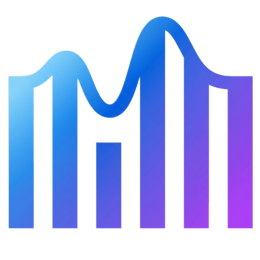
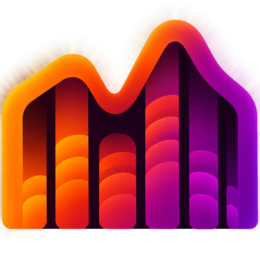
feat: Add new images

diff --git a/README.md b/README.md
@@ -1,6 +1,6 @@
 <div align="center">
 
-<img src="Frontline/assets/banner.jpg" alt="FrontLine Lyrics" width="700" />
+<img src="Frontline/assets/featured_banner.png" alt="FrontLine Lyrics" width="700" />
 
 **Real-time, synchronized lyrics for the music playing on your computer.**
 
@@ -139,7 +139,8 @@ Requires **.NET 10 SDK**, **Python**, **Git**, `pulseaudio-utils`, and `playerct
 sudo apt install -y pulseaudio-utils playerctl
 python3 -m venv .venv
 source .venv/bin/activate
-python -m pip install -r FrontlineServer/requirements-linux.txt
+python -m pip install -r FrontlineServer/requirements-linux.txtgit config pull.rebase false
+git pull
 dotnet restore FrontLine-Linux/FrontLine-Linux.csproj
 ```
 
